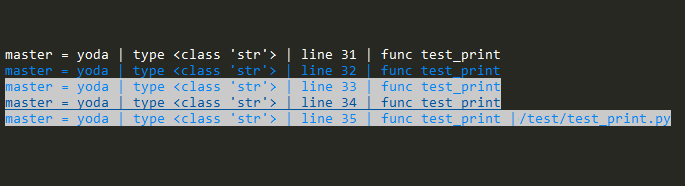
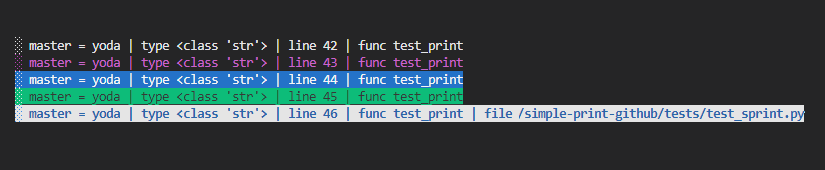
Fix docstrings, README

Changed region(s): [[0.0, 0.2353, 0.981, 0.7353]]

diff --git a/simple_print/sprint.py b/simple_print/sprint.py
@@ -27,19 +27,49 @@ else:
     SIMPLE_PRINT_SHOW_PATH_TO_FILE = False
 
 
-def _colored_print(arg:Any, arg_name:str, c:Union[None, str], b:Union[None, str], a:Union[None, str], i:int, p:bool, function_name:str, lineno:int, filename:str) -> None:     
+def _colored_print(
+        arg:Any, 
+        arg_name:str, 
+        c:Union[None, str], 
+        b:Union[None, str], 
+        a:Union[None, str], 
+        i:int, p:bool, 
+        function_name:str, 
+        lineno:int, 
+        filename:str
+    ) -> None:     
 
     if i in range(1, 41):
         arg_name = "{} {}".format(" " * i, arg_name)        
     
     if p:       
-        cprint(f"░ {arg_name} | type {type(arg)} | line {lineno} | func {function_name} | file {filename}", color=c, on_color=b, attrs=[a] if a else [])
+        cprint(
+            f"░ {arg_name} | type {type(arg)} | line {lineno} | func {function_name} | file {filename}",
+            color=c, on_color=b, attrs=[a] if a else []
+        )
     else:
-        cprint(f"░ {arg_name} | type {type(arg)} | line {lineno} | func {function_name}", color=c, on_color=b, attrs=[a] if a else [])
+        cprint(
+            f"░ {arg_name} | type {type(arg)} | line {lineno} | func {function_name}", 
+            color=c, on_color=b, attrs=[a] if a else [])
 
 
-def sprint(*args, c:Union[None, str]="white", b:Union[None, str]=None, a:Union[None, str]=None, i:int=0, p:bool=SIMPLE_PRINT_SHOW_PATH_TO_FILE, s:bool=False, f:bool=False, **kwargs) -> Union[None, str]:
-    """     
+def sprint(
+        *args, 
+        c:Union[None, str]="white", 
+        b:Union[None, str]=None, 
+        a:Union[None, str]=None, 
+        i:int=0, 
+        p:bool=SIMPLE_PRINT_SHOW_PATH_TO_FILE, 
+        s:bool=False, 
+        f:bool=False, 
+        **kwargs
+    ) -> Union[None, str]:
+    """ 
+    Usage:
+    bob = 1
+    sprint(var) >>> bob = 1
+
+    Attrs:
     с:str ~ colors: ["grey", "red", "green", "yellow", "blue", "magenta", "cyan", "white"]  
     b:str ~ backgrounds: ["on_grey", "on_red", "on_green", "on_yellow", "on_blue", "on_magenta", "on_cyan"]  
     a:str ~ attributes: bold, dark, underline, blink, reverse, concealed   
@@ -61,11 +91,10 @@ def sprint(*args, c:Union[None, str]="white", b:Union[None, str]=None, a:Union[N
             arg_names = []
 
         for j, arg in enumerate(args):
-
             try:       
                 try:
                     arg_name = source.asttokens().get_text(call_node.args[j])
-                except:
+                except (KeyError, Exception):
                     arg_name = code.replace("sprint", "", 1)[1:-1]  
                 arg_name_not_required = arg_name == arg or \
                                 arg_name.strip('"').strip("'") == arg or \
@@ -74,28 +103,36 @@ def sprint(*args, c:Union[None, str]="white", b:Union[None, str]=None, a:Union[N
                                 ".format" in arg_name or \
                                 "%" in arg_name
                 arg_name = f"{arg}" if arg_name_not_required else f"{arg_name} = {arg}"
-            except Exception as e:
+            except Exception:
                 arg_name = f"{arg}"
                 
             try:
                 if hasattr(arg, "id") and arg.id:
                     arg_name += f" ID={arg.id}"
-            except:
+            except (AttributeError, Exception):
                 pass
 
             if s:
-                arg_name = f"{arg_name} | {type(arg)} | func {function_name} | line {lineno} | file {filename}" if p else f"{arg_name} | {type(arg)} | func {function_name} | line {lineno}"
+                arg_name = f"{arg_name} | {type(arg)} | func {function_name} | line {lineno} | file {filename}"\
+                if p else f"{arg_name} | {type(arg)} | func {function_name} | line {lineno}"
                 arg_names.append(arg_name)
             else:
-                _colored_print(arg, arg_name, c, b, a, i, p, function_name, lineno, filename)
+                _colored_print(
+                    arg, arg_name, c, b, a, i, p, function_name, lineno, filename
+                )
         
         if s:
             return ";".join(arg_names)
 
 
 @contextmanager
-def SprintErr(DEBUG=True):
-
+def SprintErr():
+    """ 
+    Usage:
+    bob = []
+    with SprintErr():
+        print(bob[2]) >>> pretty error tb 
+    """
     def format_exception(ei) -> str:
         sio = io.StringIO()
         tb = ei[2]
@@ -106,18 +143,27 @@ def SprintErr(DEBUG=True):
             s = s[:-1]
         return s
 
-    if DEBUG:
+    if SIMPLE_PRINT_ENABLED:
         stack = traceback.extract_stack()
         filename, lineno, function_name, code = stack[-3]
 
-        cprint(f"░░░░░░░░░░ SprintErr. f_name={filename} lineno={lineno} [ ENTER ]", color="green")
+        cprint(
+            f"░░░░░░░░░░ SprintErr. f_name={filename} lineno={lineno} [ ENTER ]", 
+            color="green"
+        )
         try:
             yield 
-        except Exception as e:
-            cprint(f"░░░░░░░░░░ SprintErr. f_name={filename} lineno={lineno} [ ERRORS FOUND ]\n", color="red")
+        except Exception:
+            cprint(
+                f"░░░░░░░░░░ SprintErr. f_name={filename} lineno={lineno} [ ERRORS FOUND ]\n",
+                color="red"
+            )
             ei = sys.exc_info()
             print(format_exception(ei))
         finally:
-            cprint(f"░░░░░░░░░░ SprintErr. f_name={filename} lineno={lineno} [ EXIT ]\n", color="green")
+            cprint(
+                f"░░░░░░░░░░ SprintErr. f_name={filename} lineno={lineno} [ EXIT ]\n", 
+                color="green"
+            )
 
 

diff --git a/tests/test_sprint.py b/tests/test_sprint.py
@@ -2,7 +2,7 @@ from simple_print import sprint
 
 
 def test_print():
-    # pytest test/test_sprint.py::test_print -rP
+    # pytest tests/test_sprint.py::test_print -rP
     
     # common
     types = (1, "yoda", (1,), [1], {1: 1}, {1}, True, None, lambda x: x, (x for x in range(2)), type)
@@ -40,9 +40,9 @@ def test_print():
     print('\n\n')
     master = "yoda"
     sprint(master)    
-    sprint(master, c="blue") # colors: grey, red, green, yellow, blue, magenta, cyan, white. 
-    sprint(master, c="blue", b="on_white") # backgrounds: on_grey, on_red, on_green, on_yellow, on_blue, on_magenta, on_cyan
-    sprint(master, c="blue", b="on_white", a="underline") # attributes: bold, dark, underline, blink, reverse, concealed
+    sprint(master, c="magenta") # colors: grey, red, green, yellow, blue, magenta, cyan, white. 
+    sprint(master, c="white", b="on_blue") # backgrounds: on_grey, on_red, on_green, on_yellow, on_blue, on_magenta, on_cyan
+    sprint(master, c="white", b="on_green", a="underline") # attributes: bold, dark, underline, blink, reverse, concealed
     sprint(master, c="blue", b="on_white", a="bold", p=True) # 
     my_string = sprint(master, s=True) # return as string
     my_string = sprint(master, s=True, p=True) # return as string with path to file 
@@ -51,12 +51,10 @@ def test_print():
     
     
 def test_indent():
-    # pytest test/test_sprint.py::test_indent -rP
-
+    # pytest tests/test_sprint.py::test_indent -rP
     fruits = ["lemon", "orange", "banana"]
     sprint(fruits, c="green")
     
     for fruit in fruits:
         sprint(fruit, c="yellow", i=4)
-    
     

diff --git a/tests/test_sprint_err.py b/tests/test_sprint_err.py
@@ -7,6 +7,7 @@ from simple_print import SprintErr
 
 class TestSprintErr(unittest.TestCase):
     # pytest test/test_sprint_err.py -rP
+
     @patch('logging.info', MagicMock(side_effect=[Exception("Something went wrong")]))
     def test_sprint_err(self):
         with SprintErr():

diff --git a/setup.py b/setup.py
@@ -2,7 +2,7 @@ import setuptools
 
 
 __author__ = 'Sobolev Andrey <email.asobolev@gmail.com>'
-__version__ = '1.7.5'
+__version__ = '1.7.6'
 
 
 with open("README.md", "r") as fh:

diff --git a/README.md b/README.md
@@ -1,6 +1,6 @@
 # Simple print
-Powerful debugging tool for Python.  
-Userful for `bash` console messages.
+Print value with variable name.  
+Userful for fast debugging.
 
 ```no-highlight
 https://github.com/Sobolev5/simple-print
@@ -12,20 +12,11 @@ To install run:
 pip install simple-print
 ```
 
-### Print variables
-Function params:
-> `c` color [grey, red, green, yellow, blue, magenta, cyan, white]  
-> `b` background [on_grey, on_red, on_green, on_yellow, on_blue, on_magenta, on_cyan]  
-> `a` attribute  [bold, dark, underline, blink, reverse, concealed]  
-> `p` path [with path to file]  
-> `i` indent [indent 1..40]  
-> `s` string [return as string]  
-> `f` force print [ignore SIMPLE_PRINT_ENABLED=False for docker production logs for example]  
-
+### Print variables with names
 ```python
 from simple_print import sprint 
 
-master = "yoda"
+master = "yoda" # variable name master
 sprint(master) 
 sprint(master, c="blue") 
 sprint(master, c="blue", b="on_white") 
@@ -37,6 +28,16 @@ my_string = sprint(master, s=True, p=True) # return as string with path to file
 Result:   
 ![](https://github.com/Sobolev5/simple-print/blob/master/screenshots/common.png)   
 `p` param is `False` by default, but you can override this behavior with `SIMPLE_PRINT_PATH_TO_FILE=True` in your local environment.
+
+Fn params:
+> `c` color [grey, red, green, yellow, blue, magenta, cyan, white]  
+> `b` background [on_grey, on_red, on_green, on_yellow, on_blue, on_magenta, on_cyan]  
+> `a` attribute  [bold, dark, underline, blink, reverse, concealed]  
+> `p` path [with path to file]  
+> `i` indent [indent 1..40]  
+> `s` string [return as string]  
+> `f` force print [ignore SIMPLE_PRINT_ENABLED=False for docker production logs for example]  
+
 
 ### Example with indent
 For indent use `i` param:
@@ -52,7 +53,7 @@ Result:
 ![](https://github.com/Sobolev5/simple-print/blob/master/screenshots/indent.png)
 
 
-### Pretty errors
+### Pretty error tb
 Show errors with pretty traceback:  
 ```python
 from simple_print import SprintErr
